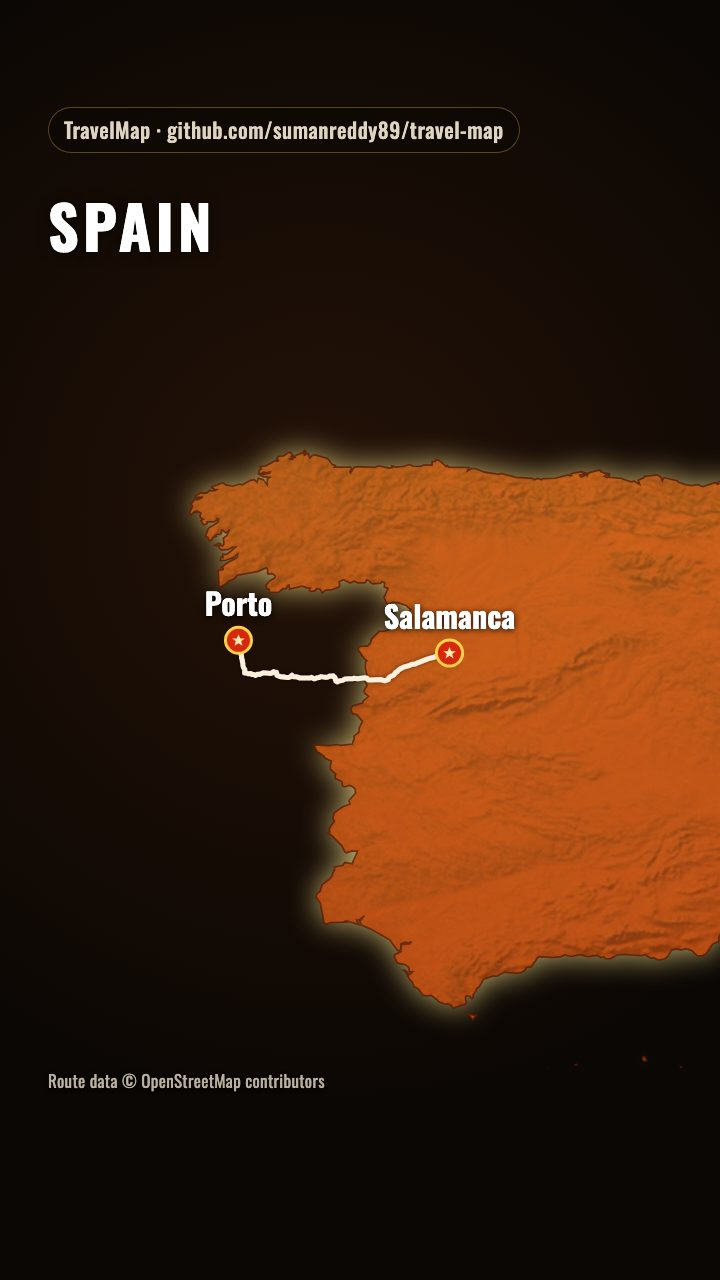
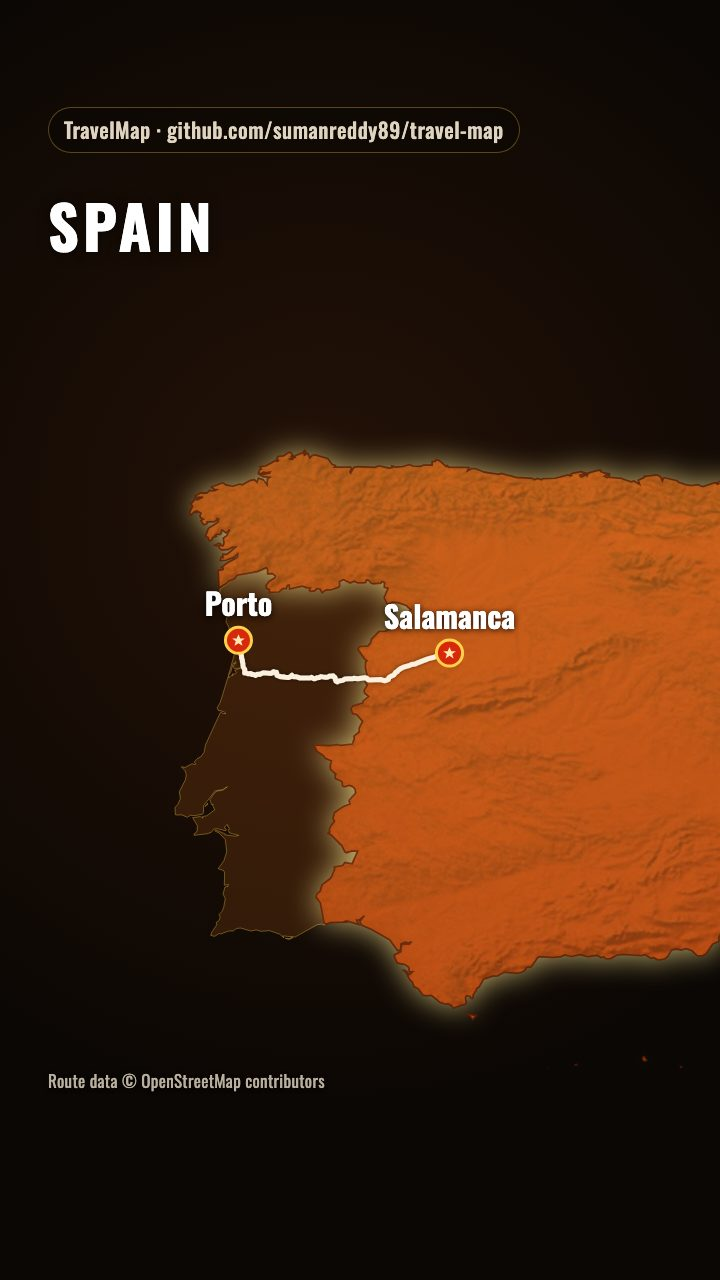
Map scenes draw the trip's other countries as dimmed silhouettes

Changed region(s): [[0.2444, 0.4375, 0.55, 0.75]]

diff --git a/remotion/src/scenes/MapTransition.tsx b/remotion/src/scenes/MapTransition.tsx
@@ -48,6 +48,8 @@ const FILL_COLOR_TOP = "#E8791F";
 const FILL_COLOR_BOTTOM = "#B23A0E";
 const LINE_COLOR = "#FBEFDD";
 const BORDER_COLOR = "rgba(70,20,0,0.45)";
+const NEIGHBOUR_FILL = "rgba(232,121,31,0.16)";
+const NEIGHBOUR_STROKE = "rgba(255,210,74,0.35)";
 const PANEL_WIDTH_RATIO = 0.38;
 // Natural Earth's admin-1 layer is county/district-level for some countries
 // (Cyprus: 5 districts) but municipality-level for others (Slovenia: 193) -
@@ -61,9 +63,11 @@ export type MapTransitionProps = {
   media: MediaItem[];
   /** Local duration of this scene in frames (its own Sequence length, not the whole video). */
   durationInFrames: number;
+  /** Every country the trip visits; the ones other than this scene's are drawn as dimmed silhouettes. */
+  tripCountries?: { iso: string; geometry: GeoJSON.Geometry }[];
 };
 
-export const MapTransition: React.FC<MapTransitionProps> = ({ scene, media, durationInFrames }) => {
+export const MapTransition: React.FC<MapTransitionProps> = ({ scene, media, durationInFrames, tripCountries = [] }) => {
   const asset = useAssetUrl();
   useTerrainReady(staticFile(scene.country.terrainRelPath));
   const frame = useCurrentFrame();
@@ -118,6 +122,10 @@ export const MapTransition: React.FC<MapTransitionProps> = ({ scene, media, dura
   );
 
   const countryPathD = useMemo(() => geometryToPath(projection, country.countryGeometry), [projection, country]);
+  const neighbourPathsD = useMemo(
+    () => tripCountries.filter((c) => c.iso !== country.iso).map((c) => geometryToPath(projection, c.geometry)),
+    [projection, country, tripCountries]
+  );
   const admin1PathsD = useMemo(
     () =>
       country.admin1.length <= MAX_ADMIN1_BORDERS
@@ -235,6 +243,11 @@ export const MapTransition: React.FC<MapTransitionProps> = ({ scene, media, dura
         </defs>
 
         <g opacity={fadeIn}>
+          {/* The trip's other countries, dimmed under the current one, so a stop near a border sits
+              next to a visible neighbour rather than in empty space. */}
+          {neighbourPathsD.map((d, i) => (
+            <path key={i} d={d} fill={NEIGHBOUR_FILL} stroke={NEIGHBOUR_STROKE} strokeWidth={1.5} />
+          ))}
           <path d={countryPathD} fill={GLOW_COLOR} filter="url(#glow)" opacity={0.85} />
 
           <g clipPath="url(#countryClip)">

diff --git a/remotion/src/TripVideo.tsx b/remotion/src/TripVideo.tsx
@@ -77,6 +77,9 @@ export const TripVideo: React.FC<TripVideoProps> = ({ trip, mapScenes, assetBase
   // Each stop's country, from the map scene that arrives there (closures recap, so they're skipped).
   const countryOf = new Map(mapScenes.filter((s) => !s.closure).map((s) => [s.toStop.id, s.country.name]));
   const timeline = buildTimeline(trip, mapScenes);
+  // Every country the trip visits, once each, so a map scene can show its neighbours on the route
+  // (Porto's Portugal next to Spain) instead of leaving them as empty dark space.
+  const tripCountries = [...new Map(mapScenes.map((s) => [s.country.iso, { iso: s.country.iso, geometry: s.country.countryGeometry }])).values()];
 
   let cursor = 0;
   const items = timeline.map((item, i) => {
@@ -95,7 +98,7 @@ export const TripVideo: React.FC<TripVideoProps> = ({ trip, mapScenes, assetBase
       const name = item.scene.closure ? `Closure: ${item.scene.country.name}` : `Map: ${item.scene.toStop.name}`;
       return (
         <Sequence key={i} from={from} durationInFrames={item.durationInFrames} name={name}>
-          <MapTransition scene={item.scene} media={item.media} durationInFrames={item.durationInFrames} />
+          <MapTransition scene={item.scene} media={item.media} durationInFrames={item.durationInFrames} tripCountries={tripCountries} />
         </Sequence>
       );
     }
